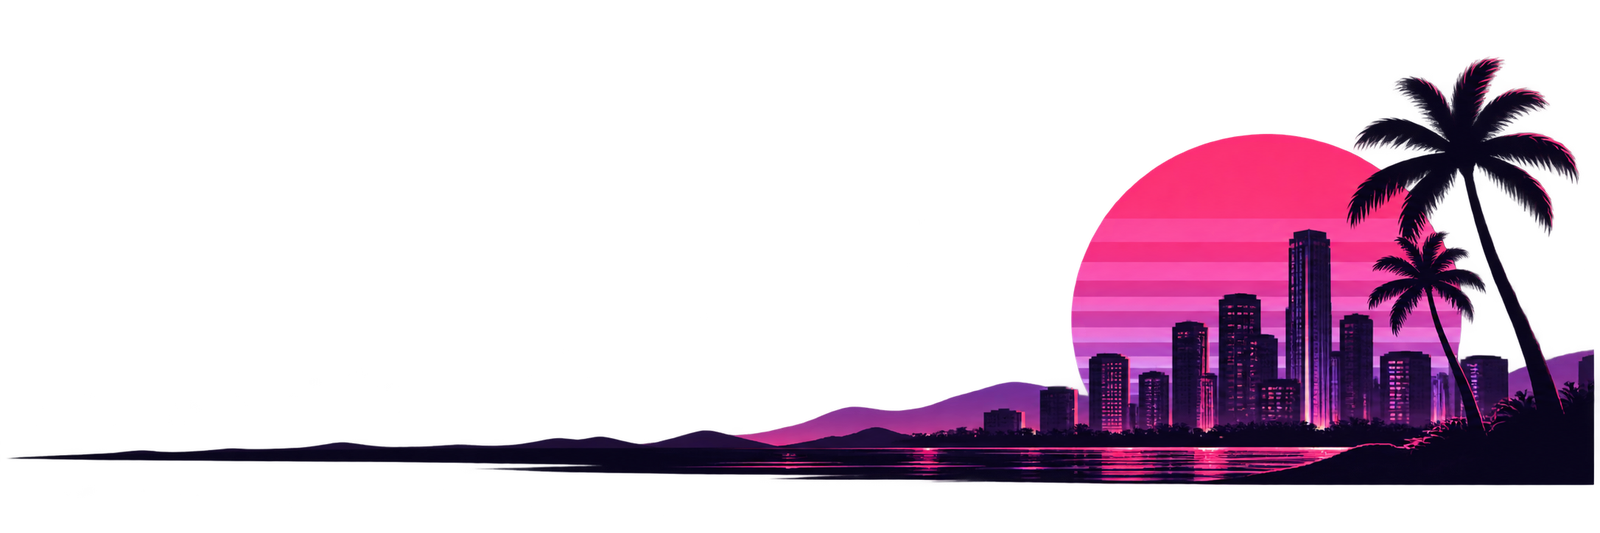
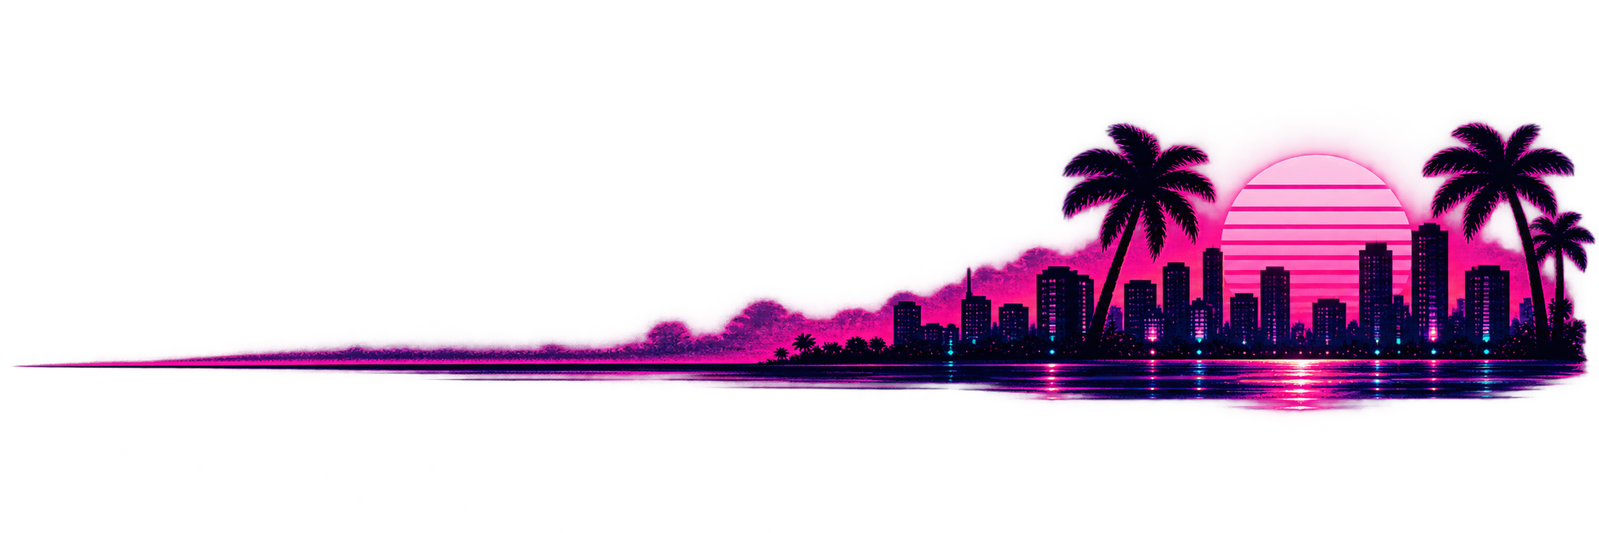
VC asset-pack polish: authored chrome per the handoff
1. Top bar: replace the skyline with the denser authored sunset strip
   (sun + towers + palms both sides, 1599x533).
2. Maneuver card: replace the generic CSS chamfer with the authored HUD
   frame (1650x565); live arrow/distance/road/stats absolutely positioned
   into the frame's three zones. No DOM changes.
3. Bottom bar: replace bottombar.jpg with the authored neon HUD strip
   (pink top edge, cyan bottom edge, sunset/palm ends).
4. Scenic 4:3 sunset REJECTED - the lyric stage already sits on hud.png's
   baked sunset; layering a second sunset would muddy it.

Phone mode, other themes, map fonts, Spotify/lyrics engine, voice and
routing untouched. 1163 tests pass.

diff --git a/styles.css b/styles.css
@@ -494,13 +494,23 @@ body.dashboard-mode.theme-vice-city #dash-dest{
    and a trip stats row. Phone / other themes are untouched. */
 #next-stats{display:none}
 body.dashboard-mode.theme-vice-city #maneuver-card{
-  background:linear-gradient(180deg,rgba(10,3,24,.96),rgba(22,7,44,.96));
-  border:2px solid #ff2e88;border-radius:0;
-  clip-path:polygon(20px 0,100% 0,100% calc(100% - 20px),calc(100% - 20px) 100%,0 100%,0 20px);
-  box-shadow:0 0 28px rgba(255,46,136,.5),inset 0 0 34px rgba(255,46,136,.09);
-  padding:16px 24px;gap:20px;max-width:580px;backdrop-filter:none;-webkit-backdrop-filter:none;
+  background:url('assets/themes/vice-city/dashboard/maneuver-frame.png') 0 0/100% 100% no-repeat;
+  border:0;border-radius:0;clip-path:none;box-shadow:none;
+  padding:0;gap:0;width:580px;max-width:580px;aspect-ratio:1650/565;
+  backdrop-filter:none;-webkit-backdrop-filter:none;
+  display:block;
 }
-body.dashboard-mode.theme-vice-city #maneuver-arrow{flex:0 0 76px;width:76px;height:76px}
+body.dashboard-mode.theme-vice-city #maneuver-arrow{
+  position:absolute;left:3.5%;top:12%;width:30.5%;height:67%;
+  display:flex;align-items:center;justify-content:center;
+}
+body.dashboard-mode.theme-vice-city #maneuver-arrow svg{width:84px;height:84px}
+body.dashboard-mode.theme-vice-city .banner-text{
+  position:absolute;left:37.5%;top:12%;width:58.5%;height:67%;
+  display:flex;flex-direction:column;min-width:0;
+}
+body.dashboard-mode.theme-vice-city #next-dist{margin-top:4px}
+body.dashboard-mode.theme-vice-city #next-stats{margin-top:auto;margin-bottom:6px}
 body.dashboard-mode.theme-vice-city #maneuver-arrow svg{
   stroke:#ff2e88;filter:drop-shadow(0 0 9px rgba(255,46,136,.95));
 }

diff --git a/tools/theme_tests.js b/tools/theme_tests.js
@@ -371,6 +371,18 @@ ok(!/theme-rdr2 #dash-(topbar|bottombar)\{[^}]*#ff71ce/.test(cssSrc), 'RDR2 bar 
 // VC visual quality pass: neon console bars per the benchmark
 ok(indexSrc.includes('class="dash-palm"'), 'top bar has a neon palm beside the wordmark');
 ok(indexSrc.includes('dashboard/skyline.png'), 'VC top bar uses the illustrated skyline art');
+/* ---------- VC asset-pack polish: authored chrome ---------- */
+const sky = pngSize(path.join(REPO, 'assets/themes/vice-city/dashboard/skyline.png'));
+ok(sky && sky.w >= 1500 && sky.h >= 500, 'VC skyline art: dense authored strip (asset pack #1)');
+const mfr = pngSize(path.join(REPO, 'assets/themes/vice-city/dashboard/maneuver-frame.png'));
+ok(mfr && mfr.w === 1650 && mfr.h === 565, 'VC maneuver HUD frame present at authored size (asset pack #3)');
+ok(fs.existsSync(path.join(REPO, 'themes/vice-city/dashboard/bottombar.jpg')),
+  'VC bottom bar HUD strip present (asset pack #2)');
+ok(cssSrc.includes('maneuver-frame.png'), 'VC maneuver card uses the authored HUD frame');
+ok(/theme-vice-city #maneuver-card\{[^}]*aspect-ratio/.test(cssSrc),
+  'VC maneuver card keeps the frame\'s authored aspect ratio');
+ok(!/theme-vice-city #maneuver-card\{[^}]*clip-path:polygon/.test(cssSrc),
+  'VC maneuver card drops the generic CSS chamfer for the authored frame');
 ok(indexSrc.includes('class="dash-north"'), 'bottom bar compass shows the N marker');
 ok(indexSrc.includes('id="next-stats"'), 'maneuver card has a trip stats row slot');
 ok(cssSrc.includes('body.dashboard-mode.theme-vice-city #next-stats'), 'VC dashboard styles the maneuver stats row');
